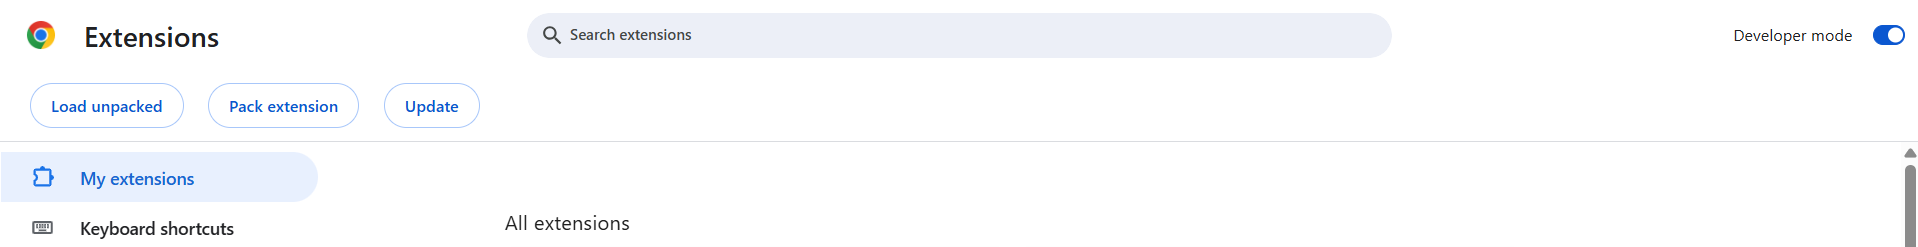
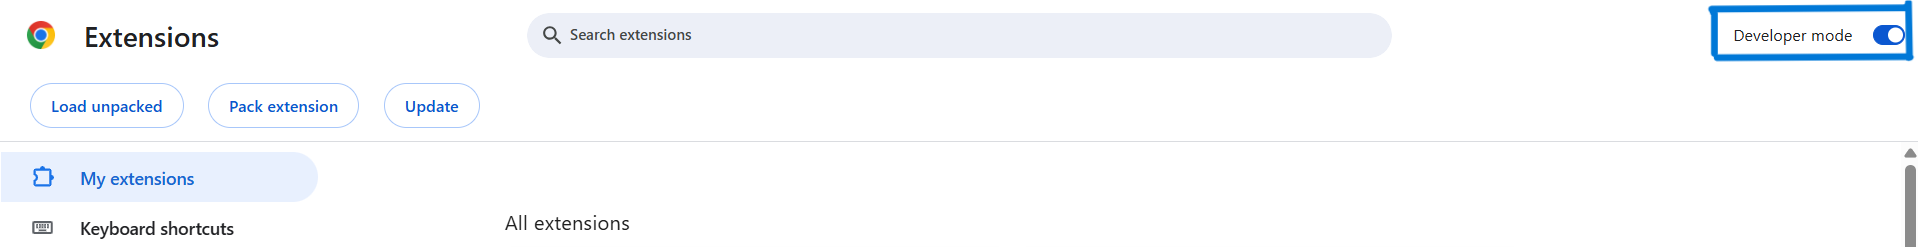
screens

Changed region(s): [[0.8921, 0.0, 1.0, 0.2551]]

diff --git a/README.md b/README.md
@@ -53,7 +53,7 @@ A Chrome extension to help you stay focused by **blocking distracting websites**
    ```bash
    chrome://extensions/
 
-3. Active the Developer mode:
+3. Enable the Developer mode:
   <p align="center">
     <img src="icons/tuto1.png" width="100%"/>
   </p>
